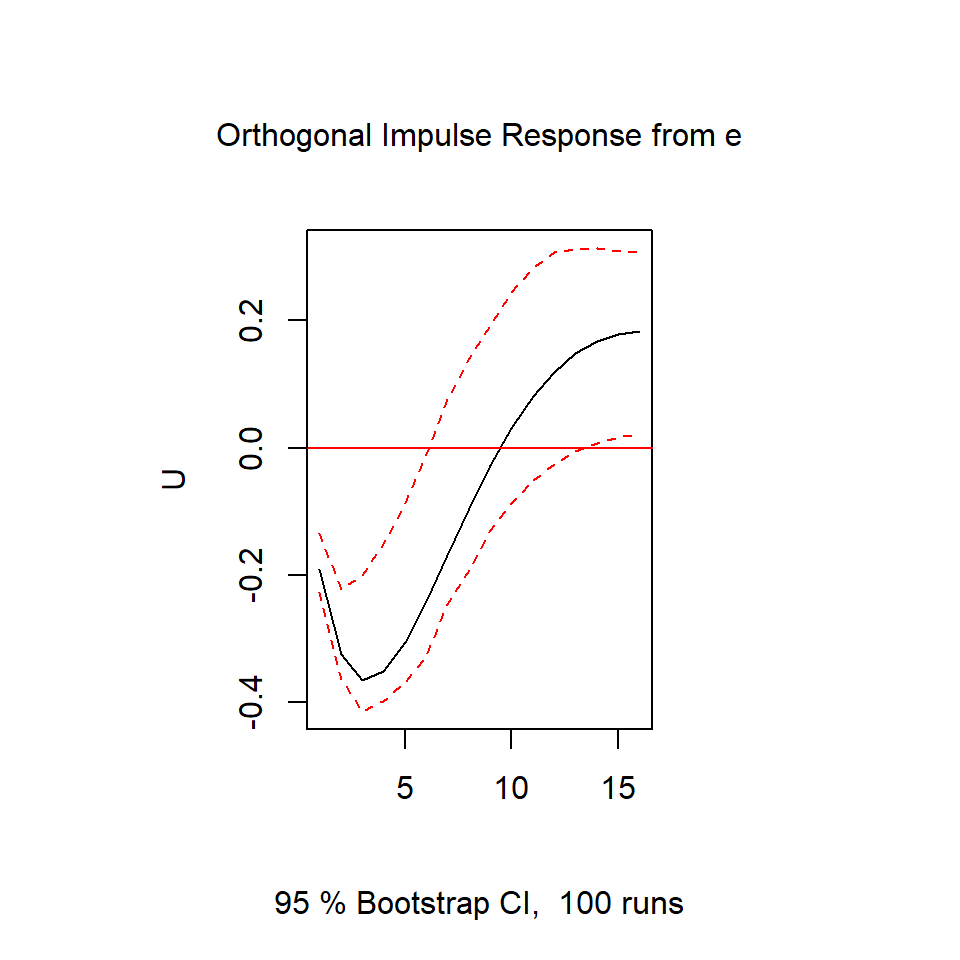
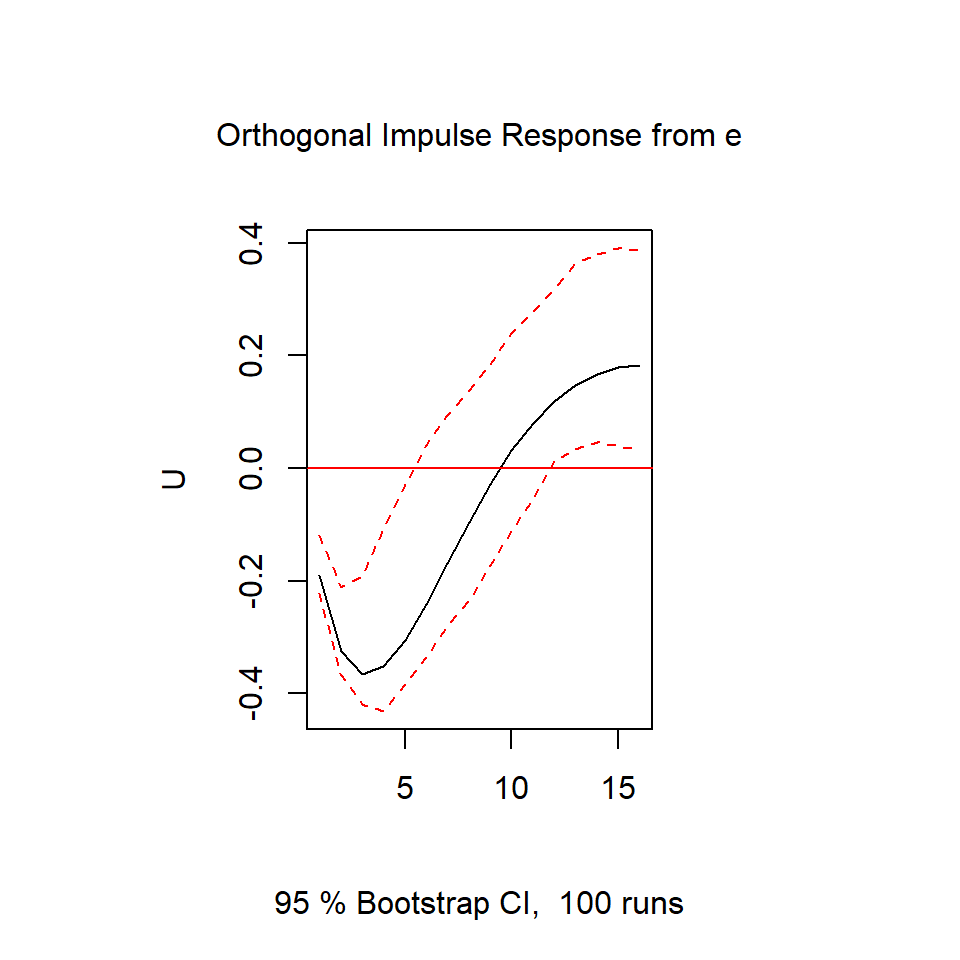
Tema 2-3

diff --git a/Tema_2/presentacion3.html b/Tema_2/presentacion3.html
@@ -424,6 +424,9 @@
 <p>VARX(p)</p>
 </div></li>
 <li><div class="agenda-inactive agenda-post-active">
+<p>Causalidad de Granger</p>
+</div></li>
+<li><div class="agenda-inactive agenda-post-active">
 <p>Ejemplo simulado</p>
 </div></li>
 <li><div class="agenda-inactive agenda-post-active">
@@ -465,7 +468,36 @@ t \end{bmatrix}\]</span></p>
 </ul>
 <p><span class="math display">\[X_{1,t}=\alpha_1 + \beta_1 t+\phi_{11}X_{1,t-1}+\phi_{12}X_{2,t-1}+\phi_{13}X_{3,t-1}+a_{1,t}\]</span></p>
 <p><span class="math display">\[X_{2,t}=\alpha_2+ \beta_2 t+\phi_{21}X_{1,t-1}+\phi_{22}X_{2,t-1}+\phi_{23}X_{3,t-1}+a_{2,t}\]</span></p>
-<p><span class="math display">\[X_{3,t}=\alpha_3+ \beta_3 t+\phi_{31}X_{1,t-1}+\phi_{32}X_{2,t-1}+\phi_{33}X_{3,t-1}+a_{3,t}\]</span> # Causalidad de Granger</p>
+<p><span class="math display">\[X_{3,t}=\alpha_3+ \beta_3 t+\phi_{31}X_{1,t-1}+\phi_{32}X_{2,t-1}+\phi_{33}X_{3,t-1}+a_{3,t}\]</span></p>
+</section></section>
+<section>
+<section id="causalidad-de-granger" class="title-slide slide level1 agenda-slide center">
+<h1>Causalidad de Granger</h1>
+<div class="agenda-heading">
+<p>Contenido</p>
+</div>
+<div class="agenda">
+<ol>
+<li><div class="agenda-inactive agenda-pre-active">
+<p>VARX(p)</p>
+</div></li>
+<li><div class="agenda-active">
+<p>Causalidad de Granger</p>
+</div></li>
+<li><div class="agenda-inactive agenda-post-active">
+<p>Ejemplo simulado</p>
+</div></li>
+<li><div class="agenda-inactive agenda-post-active">
+<p>Pronóstico</p>
+</div></li>
+<li><div class="agenda-inactive agenda-post-active">
+<p>El análisis del impulso-respuesta</p>
+</div></li>
+<li><div class="agenda-inactive agenda-post-active">
+<p>Ejemplo</p>
+</div></li>
+</ol>
+</div>
 </section>
 <section id="causalidad-de-granger-de-un-var1" class="slide level2">
 <h2>Causalidad de Granger de un VAR(1)</h2>
@@ -562,7 +594,7 @@ a_{2t}
 <li><p>Por otro lado, para probar la causalidad instantánea, se utiliza el estadístico Wald pero con las hipótesis planteadas de la siguiente forma:</p></li>
 </ul>
 <p><span class="math display">\[\begin{align}H_0:&amp;\Gamma \Sigma_a=c \\    
-H_1:\Gamma \Sigma_a \neq c \end{align}\]</span></p>
+H_1:&amp;\Gamma \Sigma_a \neq c \end{align}\]</span></p>
 <p>donde <span class="math inline">\(\Gamma\)</span> es una matriz <span class="math inline">\((N \times K(K+1)/2)\)</span></p>
 <ul>
 <li>En este caso, el estadístico tiene una distribución asintótica de <span class="math inline">\(\chi_{N}^2\)</span>.</li>
@@ -578,6 +610,9 @@ H_1:\Gamma \Sigma_a \neq c \end{align}\]</span></p>
 <ol>
 <li><div class="agenda-inactive agenda-pre-active">
 <p>VARX(p)</p>
+</div></li>
+<li><div class="agenda-inactive agenda-pre-active">
+<p>Causalidad de Granger</p>
 </div></li>
 <li><div class="agenda-active">
 <p>Ejemplo simulado</p>
@@ -690,11 +725,11 @@ AIC(n)  HQ(n)  SC(n) FPE(n)
      1      1      1      1 
 
 $criteria
-                 1           2           3            4           5
-AIC(n) -0.08456655 -0.07853599 -0.06463957 -0.051483956 -0.03925039
-HQ(n)  -0.07122862 -0.05186014 -0.02462580  0.001867746  0.02743924
-SC(n)  -0.05059032 -0.01058354  0.03728910  0.084420941  0.13063073
-FPE(n)  0.91891058  0.92446944  0.93740749  0.949824236  0.96152050</code></pre>
+                 1            2          3           4           5
+AIC(n) -0.02452751 -0.009138218 0.00169449 0.001655257 0.005712094
+HQ(n)  -0.01118959  0.017537633 0.04170827 0.055006960 0.072401722
+SC(n)   0.00944871  0.058814231 0.10362316 0.137560155 0.175593216
+FPE(n)  0.97577093  0.990904106 1.00169831 1.001662267 1.005739498</code></pre>
 </div>
 </div>
 <ul>
@@ -706,7 +741,7 @@ FPE(n)  0.91891058  0.92446944  0.93740749  0.949824236  0.96152050</code></pre>
 <span id="cb8-3"><a href=""></a>roots <span class="ot">&lt;-</span> vars<span class="sc">::</span><span class="fu">roots</span>(varsimest)</span>
 <span id="cb8-4"><a href=""></a>roots</span></code><button title="Copiar al portapapeles" class="code-copy-button"><i class="bi"></i></button></pre></div>
 <div class="cell-output cell-output-stdout">
-<pre><code>[1] 0.4907461 0.4606588</code></pre>
+<pre><code>[1] 0.5236734 0.4227979</code></pre>
 </div>
 </div>
 </section>
@@ -722,7 +757,7 @@ FPE(n)  0.91891058  0.92446944  0.93740749  0.949824236  0.96152050</code></pre>
     Portmanteau Test (asymptotic)
 
 data:  Residuals of VAR object varsimest
-Chi-squared = 61.755, df = 60, p-value = 0.4132</code></pre>
+Chi-squared = 60.827, df = 60, p-value = 0.4459</code></pre>
 </div>
 <div class="sourceCode cell-code" id="cb12"><pre class="sourceCode numberSource r number-lines code-with-copy"><code class="sourceCode r"><span id="cb12-1"><a href=""></a>(var.arch <span class="ot">&lt;-</span> <span class="fu">arch.test</span>(varsimest, <span class="at">lags.multi =</span> <span class="dv">5</span>, <span class="at">multivariate.only =</span> <span class="cn">TRUE</span>))</span></code><button title="Copiar al portapapeles" class="code-copy-button"><i class="bi"></i></button></pre></div>
 <div class="cell-output cell-output-stdout">
@@ -730,7 +765,7 @@ Chi-squared = 61.755, df = 60, p-value = 0.4132</code></pre>
     ARCH (multivariate)
 
 data:  Residuals of VAR object varsimest
-Chi-squared = 52.264, df = 45, p-value = 0.2126</code></pre>
+Chi-squared = 33.31, df = 45, p-value = 0.9009</code></pre>
 </div>
 </div>
 </div><div class="column" style="width:50%;">
@@ -742,7 +777,7 @@ Chi-squared = 52.264, df = 45, p-value = 0.2126</code></pre>
     JB-Test (multivariate)
 
 data:  Residuals of VAR object varsimest
-Chi-squared = 2.1107, df = 4, p-value = 0.7154
+Chi-squared = 10.309, df = 4, p-value = 0.03553
 
 
 $Skewness
@@ -750,7 +785,7 @@ $Skewness
     Skewness only (multivariate)
 
 data:  Residuals of VAR object varsimest
-Chi-squared = 0.82008, df = 2, p-value = 0.6636
+Chi-squared = 4.6243, df = 2, p-value = 0.09905
 
 
 $Kurtosis
@@ -758,7 +793,7 @@ $Kurtosis
     Kurtosis only (multivariate)
 
 data:  Residuals of VAR object varsimest
-Chi-squared = 1.2906, df = 2, p-value = 0.5245</code></pre>
+Chi-squared = 5.6851, df = 2, p-value = 0.05828</code></pre>
 </div>
 </div>
 </div></div>
@@ -806,7 +841,7 @@ Chi-squared = 1.2906, df = 2, p-value = 0.5245</code></pre>
     Granger causality H0: x2 do not Granger-cause x1
 
 data:  VAR object varsimest
-F-Test = 48.707, df1 = 1, df2 = 994, p-value = 5.425e-12
+F-Test = 74.114, df1 = 1, df2 = 994, p-value &lt; 2.2e-16
 
 
 $Instant
@@ -814,7 +849,7 @@ $Instant
     H0: No instantaneous causality between: x2 and x1
 
 data:  VAR object varsimest
-Chi-squared = 0.061316, df = 1, p-value = 0.8044</code></pre>
+Chi-squared = 0.36695, df = 1, p-value = 0.5447</code></pre>
 </div>
 </div>
 <div class="cell">
@@ -825,7 +860,7 @@ Chi-squared = 0.061316, df = 1, p-value = 0.8044</code></pre>
     Granger causality H0: x1 do not Granger-cause x2
 
 data:  VAR object varsimest
-F-Test = 3.6817, df1 = 1, df2 = 994, p-value = 0.0553
+F-Test = 0.015844, df1 = 1, df2 = 994, p-value = 0.8999
 
 
 $Instant
@@ -833,7 +868,7 @@ $Instant
     H0: No instantaneous causality between: x1 and x2
 
 data:  VAR object varsimest
-Chi-squared = 0.061316, df = 1, p-value = 0.8044</code></pre>
+Chi-squared = 0.36695, df = 1, p-value = 0.5447</code></pre>
 </div>
 </div>
 </section></section>
@@ -847,6 +882,9 @@ Chi-squared = 0.061316, df = 1, p-value = 0.8044</code></pre>
 <ol>
 <li><div class="agenda-inactive agenda-pre-active">
 <p>VARX(p)</p>
+</div></li>
+<li><div class="agenda-inactive agenda-pre-active">
+<p>Causalidad de Granger</p>
 </div></li>
 <li><div class="agenda-inactive agenda-pre-active">
 <p>Ejemplo simulado</p>
@@ -894,6 +932,9 @@ Chi-squared = 0.061316, df = 1, p-value = 0.8044</code></pre>
 <ol>
 <li><div class="agenda-inactive agenda-pre-active">
 <p>VARX(p)</p>
+</div></li>
+<li><div class="agenda-inactive agenda-pre-active">
+<p>Causalidad de Granger</p>
 </div></li>
 <li><div class="agenda-inactive agenda-pre-active">
 <p>Ejemplo simulado</p>
@@ -977,6 +1018,9 @@ a_{2,t-1}
 <ol>
 <li><div class="agenda-inactive agenda-pre-active">
 <p>VARX(p)</p>
+</div></li>
+<li><div class="agenda-inactive agenda-pre-active">
+<p>Causalidad de Granger</p>
 </div></li>
 <li><div class="agenda-inactive agenda-pre-active">
 <p>Ejemplo simulado</p>
@@ -1295,7 +1339,7 @@ Chi-squared = 1.0928, df = 4, p-value = 0.8954</code></pre>
 </div>
 </div></div>
 </section>
-<section id="causalidad-de-granger" class="slide level2">
+<section id="causalidad-de-granger-1" class="slide level2">
 <h2>Causalidad de Granger</h2>
 <div class="cell">
 <div class="sourceCode cell-code" id="cb40"><pre class="sourceCode numberSource r number-lines code-with-copy"><code class="sourceCode r"><span id="cb40-1"><a href=""></a>(var.causal<span class="fl">.1</span><span class="ot">&lt;-</span> <span class="fu">causality</span>(fitvar,<span class="at">cause=</span><span class="fu">c</span>(<span class="st">"prod"</span>, <span class="st">"e"</span>, <span class="st">"rw"</span>)))</span></code><button title="Copiar al portapapeles" class="code-copy-button"><i class="bi"></i></button></pre></div>
